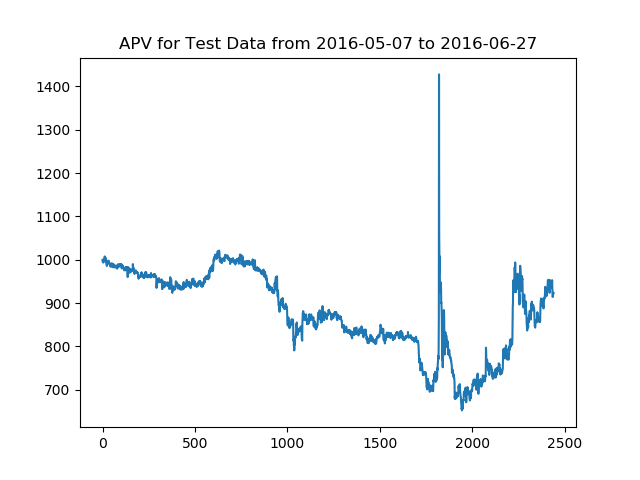
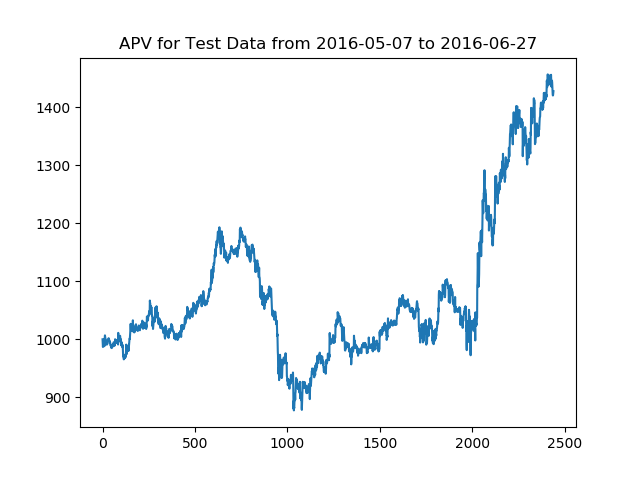
Working PPO

diff --git a/models/ppo_model.py b/models/ppo_model.py
@@ -1,6 +1,7 @@
 import tensorflow as tf
 import functools
 import numpy as np
+from collections import deque
 
 
 def lazy_property(function):
@@ -15,7 +16,7 @@ def lazy_property(function):
 
     return decorator
 
-class Network:
+class PPONetwork:
     def __init__(self,num_hid=20, clip_norm=0.25,
                  num_features=3, num_assets=9,
                  bptt=5, lr=3e-4, bsz=12,
@@ -34,13 +35,13 @@ class Network:
         self._wt_init = tf.initializers.random_uniform(minval=-3e-3, maxval=3e-3)
 
         with tf.variable_scope("Network_Input"):
-            self._market_state = tf.placeholder(tf.float32, [None, self._bptt, self._num_features, self._num_assets])
+            self._market_state = tf.placeholder(tf.float32, [None, self._bptt, self._num_features, self._num_assets],name="INPUT")
             # self.__allocation_gradients = tf.placeholder(tf.float32, [None, self._num_assets + 1])
-            self._true_reward = tf.placeholder(tf.float32, [None])
+            # self._true_reward = tf.placeholder(tf.float32, [None,1])
 
-        self.actor_t = tf.placeholder(tf.float32, [None, self._num_assets + 1])
-        self.value_t = tf.placeholder(tf.float32, [None])
-        self.advantage_t = tf.placeholder(tf.float32, [None])
+        self.actor_t = tf.placeholder(tf.float32, [None, self._num_assets + 1],name="ACTOR_T")
+        self.value_t = tf.placeholder(tf.float32, [None,1],name="VALUE_T")
+        self.advantage_t = tf.placeholder(tf.float32, [None,1],name="ADVANTAGE_T")
 
         self._new_scp_name = "{}_NEW".format(tag)
         self._old_scp_name = "{}_OLD".format(tag)
@@ -50,7 +51,12 @@ class Network:
         self._old_policy_op, self._old_value_op, self._old_dist_op = self.build_ac_network(self._old_scp_name, self._shared_layers)
         self._tmp_policy_op, self._tmp_value_op, self._tmp_dist_op = self.build_ac_network(self._tmp_scp_name, self._shared_layers)
 
-    @lazy_property
+        self.__get_loss_op
+        self.__optimize_op
+        self.__backup_new_params_op
+        self.__update_old_params_op
+
+
     def build_ac_network(self, pre_scope, hidden_layers):
         shapes = self._market_state.get_shape().as_list()
         net = tf.reshape(self._market_state, [-1, shapes[1] , shapes[2] * shapes[3]])
@@ -78,7 +84,7 @@ class Network:
 
             # Skeptical!
             dist = tf.distributions.Normal(actor_net1, actor_net2)
-            policy = tf.squeeze(dist.sample(self._bsz), axis=1)
+            policy = dist.sample()
 
         with tf.variable_scope(pre_scope + "_critic"):
             value = tf.layers.dense(net, units=1, activation=None)
@@ -86,8 +92,7 @@ class Network:
         return policy, value, dist
 
     @lazy_property
-    def __get_loss_op(self, obs_dim,
-                    num_actions, gamma=1.0, epsilon=0.2, beta=0.01, scope='ppo',
+    def __get_loss_op(self, gamma=1.0, epsilon=0.2, beta=0.01, scope='ppo',
                     reuse=None):
         with tf.variable_scope(scope, reuse=reuse):
             cur_policy = self._new_dist_op.log_prob(self.actor_t + self._delta)
@@ -130,18 +135,23 @@ class Network:
         return sess.run([self.__update_old_params_op])
 
     def optimize(self, sess, state, action, value, advantage):
-        return sess.run([self.__optimize_op], {
+        return sess.run([self.__optimize_op, self.__get_loss_op], {
             self._market_state: state, self.actor_t: action,
             self.value_t: value, self.advantage_t: advantage
         })
 
-    def get_ratio_and_loss(self, sess):
-        return sess.run(self.__get_loss_op)
+    # def get_ratio_and_loss(self, sess, state, actions, values, advantage):
+    #     return sess.run(self.__get_loss_op, {
+    #         self._market_state: state, self.actor_t: actions,
+    #         self.value_t: values, self.advantage_t: advantage
+    #     })
 
-class Agent:
-    def __init__(self, obs_dim, bsz,
-                 num_actions, gamma=0.9, lam=0.95, reuse=None):
-        self.num_actions = num_actions
+class PPOAgent:
+    def __init__(self, bsz, gamma=0.9, lam=0.95, reuse=None,
+                   num_hid=20, clip_norm=0.25,
+                   num_features=3, num_assets=9,
+                   bptt=5, lr=3e-4,
+                   num_dense_units=64, num_layers=2, delta=1e-5, tag=0):
         self.gamma = gamma
         self.lam = lam
         self.t = 0
@@ -151,15 +161,19 @@ class Agent:
         self.values = []
         self.next_values = []
 
-        self._network = Network(bsz=bsz)
+        self._network = PPONetwork(bsz=bsz,num_hid=num_hid, clip_norm=clip_norm,
+                                   num_features=num_features, num_assets=num_assets,
+                                   bptt=bptt, lr=lr,
+                                   num_dense_units=num_dense_units, num_layers=num_layers, delta=delta, tag=tag
+                                   )
 
-    def act_and_fetch(self, sess, last_state, last_action, last_value, reward, cur_state):
+    def act_and_fetch(self, sess, last_state, last_action, last_value, reward, cur_state, idx):
 
         action, value = sess.run([self._network._new_policy_op, self._network._new_value_op],{
             self._network._market_state : cur_state
         })
-        action, value = action[0], value[0]
-        if last_state != None:
+        # action, value = action[0], value[0]
+        if idx != 0:
             self.states.append(last_state)
             self.actions.append(last_action)
             self.rewards.append(reward)
@@ -170,10 +184,11 @@ class Agent:
 
     def train(self, sess, state, actions, values, advantage):
         self._network.backup_new_params(sess)
-        self._network.optimize(sess, state, actions, values, advantage)
-        loss, ratio = self._network.get_ratio_and_loss(sess)
+        _, loss_ratio = self._network.optimize(sess, state, actions, values, advantage)
         self._network.update_old_params_op(sess)
-        return loss, ratio
+        return loss_ratio[0], loss_ratio[1]
+
+
 
     def _reset_trajectories(self):
         self.states = []
@@ -183,11 +198,12 @@ class Agent:
         self.next_values = []
 
     def get_training_data(self):
-        obss = list(self.states)
-        actions = list(self.actions)
+        obss = np.asarray(self.states)
+        actions = np.asarray(self.actions)
         deltas = []
         returns = []
         V = 0
+
         for i in reversed(range(len(self.states))):
             reward = self.rewards[i]
             value = self.values[i]
@@ -196,31 +212,12 @@ class Agent:
             V = delta + self.lam * self.gamma * V
             deltas.append(V)
             returns.append(V + value)
-        deltas = np.array(list(reversed(deltas)), dtype=np.float32)
-        returns = np.array(list(reversed(returns)), dtype=np.float32)
+        delta_t = np.array(list(reversed(deltas)), dtype=np.float32)
+        value_t = np.array(list(reversed(returns)), dtype=np.float32)
 
         # standardize advantages
-        deltas = (deltas - deltas.mean()) / (deltas.std() + 1e-5)
+        delta_t = (delta_t - delta_t.mean()) / (delta_t.std() + 1e-5)
         self._reset_trajectories()
-        return obss, actions, list(returns), list(deltas)
 
 
-
-
-
-
-
-
-
-
-
-
-
-
-
-
-Network()
-
-
-
-
+        return np.squeeze(obss, axis=1), np.squeeze(actions, axis=1), np.squeeze(value_t, axis=1), np.squeeze(delta_t, axis=1)

diff --git a/examples/lab_ppo_rb.py b/examples/lab_ppo_rb.py
@@ -1,0 +1,101 @@
+import sys
+import os
+sys.path.append(os.path.join(os.path.dirname(__file__), '..'))
+
+from data_load.replay_buffer import ReplayBuffer
+from data_load.batchifier import Batchifier
+from models.ppo_model import PPONetwork, PPOAgent, tf
+from literals import ASSET_LIST
+import numpy as np
+from get_metrics import get_metrics
+from sklearn.utils.extmath import softmax
+
+
+
+
+DATA_PATH = "../dataset/Poloneix_Preprocessednew"
+BSZ=32
+BPTT=10
+asset_list=ASSET_LIST
+IDX=0
+NUM_EPOCHS = 100
+INIT_PV=1000
+NUM_HID=20
+ASSETS = ASSET_LIST
+LR = 3e-4
+LOG_MINI_BATCH = 5000
+randomize_train=False
+overlapping_train=True
+RB_FACTOR=3
+OPTIMIZE_AFTER=RB_FACTOR*BSZ + 2
+
+GAMMA = 0.99
+MIX_FACTOR = 0.001
+CLIP_NORM = 5.0
+
+
+if __name__ == '__main__':
+
+    batch_gen = Batchifier(data_path=DATA_PATH, bsz=1, bptt=BPTT, idx=IDX,
+                           asset_list=ASSETS, randomize_train=randomize_train,
+                           overlapping_train=overlapping_train)
+
+
+
+    agent = PPOAgent(bsz=1, clip_norm=CLIP_NORM, num_hid=NUM_HID,
+                     num_assets=len(ASSETS), bptt=BPTT, lr=LR)
+
+
+    with tf.Session() as sess:
+        sess.run(tf.global_variables_initializer())
+        for epoch in range(1,NUM_EPOCHS + 1):
+
+            losses = []
+            last_state = None
+            last_action = None
+            last_value = None
+            actor_rewards = 0.0
+
+            for idx, (bTrainX, bTrainY) in enumerate(batch_gen.load_train()):
+                if (idx + 1) % OPTIMIZE_AFTER != 0:
+                    actor_action, critic_value = agent.act_and_fetch(sess, last_state, last_action, last_value, actor_rewards, bTrainX, idx)
+                    last_state, last_action, last_value = bTrainX, actor_action, critic_value
+
+                    actor_rewards = np.dot(actor_action.flatten(), bTrainY[:,-1,:].flatten())
+                    # actor_rewards += alloc_reward
+                    continue
+                else:
+                    states, actions, values, advantage = agent.get_training_data()
+                    assert len(states) == len(actions) and len(values) == len(advantage), "Error in setting up"
+                    shuffle_idxs = np.arange(0, OPTIMIZE_AFTER - 2)
+                    np.random.shuffle(shuffle_idxs)
+                    bloss = 0.0
+                    for batch in range(0, OPTIMIZE_AFTER - 2, BSZ):
+                        loss, ratio = agent.train(sess, state=states[batch:batch+BSZ],
+                                    actions=actions[batch:batch + BSZ],
+                                    values=values[batch:batch + BSZ],
+                                    advantage=advantage[batch:batch + BSZ]
+                                    )
+                        bloss += loss
+                    losses.append(bloss/RB_FACTOR)
+                    # print(losses)
+            print("Epoch {} Loss: {}, validating...".format(epoch, np.mean(losses)))
+            losses = []
+            allocation_wts = []
+            price_change_vec = []
+            for bEvalX, bEvalYFat in batch_gen.load_test():
+                bEvalY = bEvalYFat[:,-1,:]
+                actor_action_test, critic_value_test = agent.act_and_fetch(sess, last_state, last_action, last_value, actor_rewards, bEvalX, 0)
+                assert bEvalY.shape == actor_action_test.shape
+                price_change_vec.append(bEvalY)
+                allocation_wts.append(tf.nn.softmax(actor_action_test))
+
+            true_change_vec = np.concatenate(price_change_vec)
+            allocation_wts = np.concatenate(allocation_wts)
+            #
+            # random_alloc_wts = softmax(np.random.random(allocation_wts.shape))
+            test_date = "_".join(batch_gen.dp.test_dates[IDX])
+            m = get_metrics(dt_range=test_date)
+            print("Our Policy:")
+            m.apv_multiple_asset(true_change_vec, allocation_wts, get_graph=True, pv_0=INIT_PV)
+            agent._reset_trajectories()
